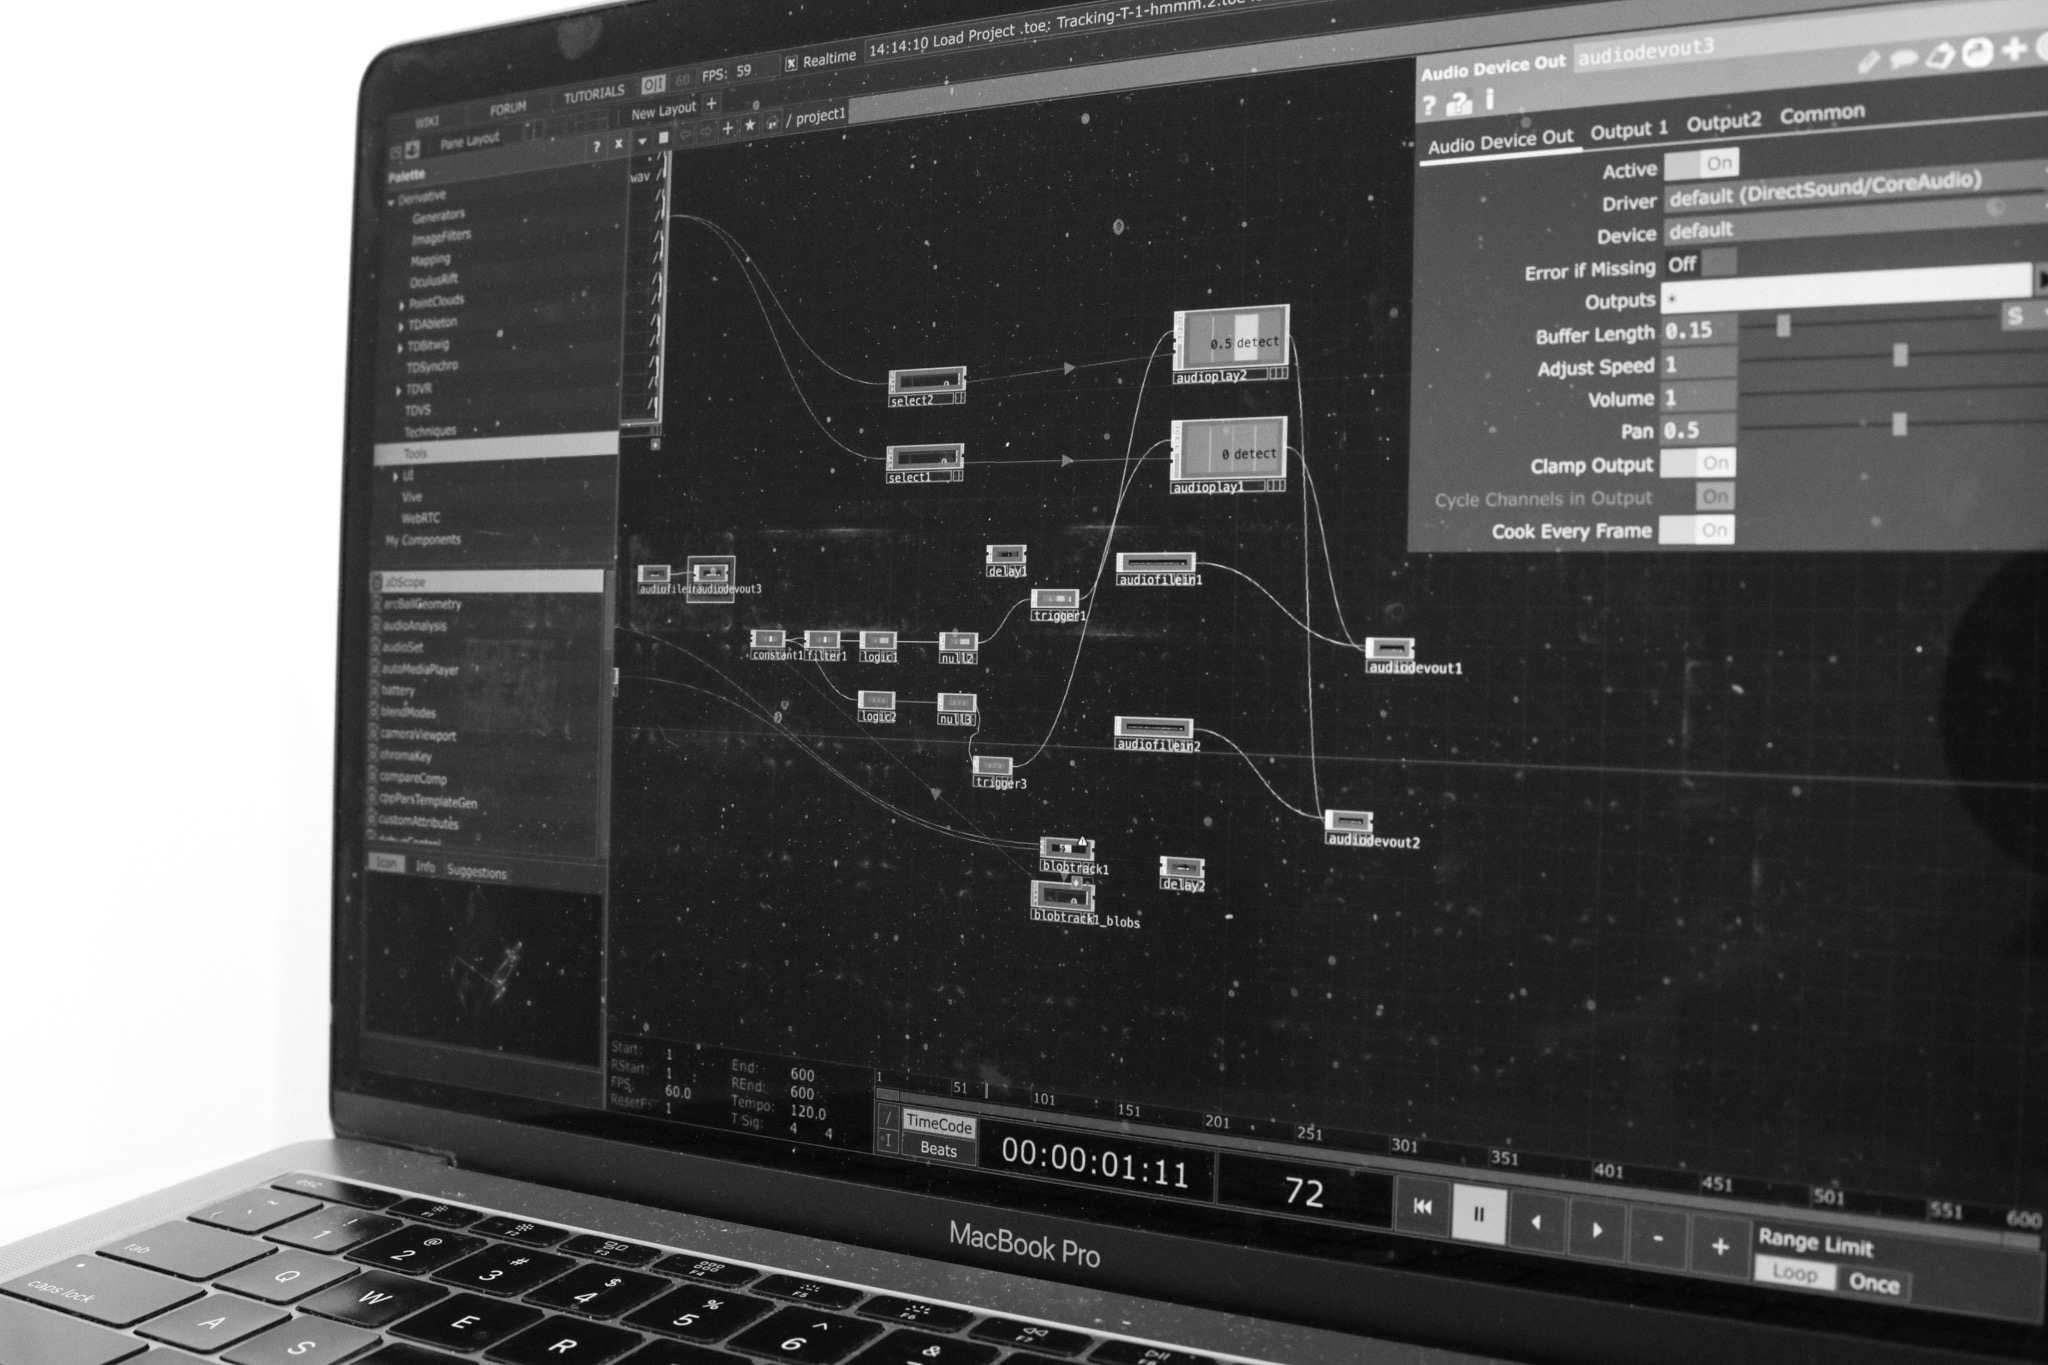
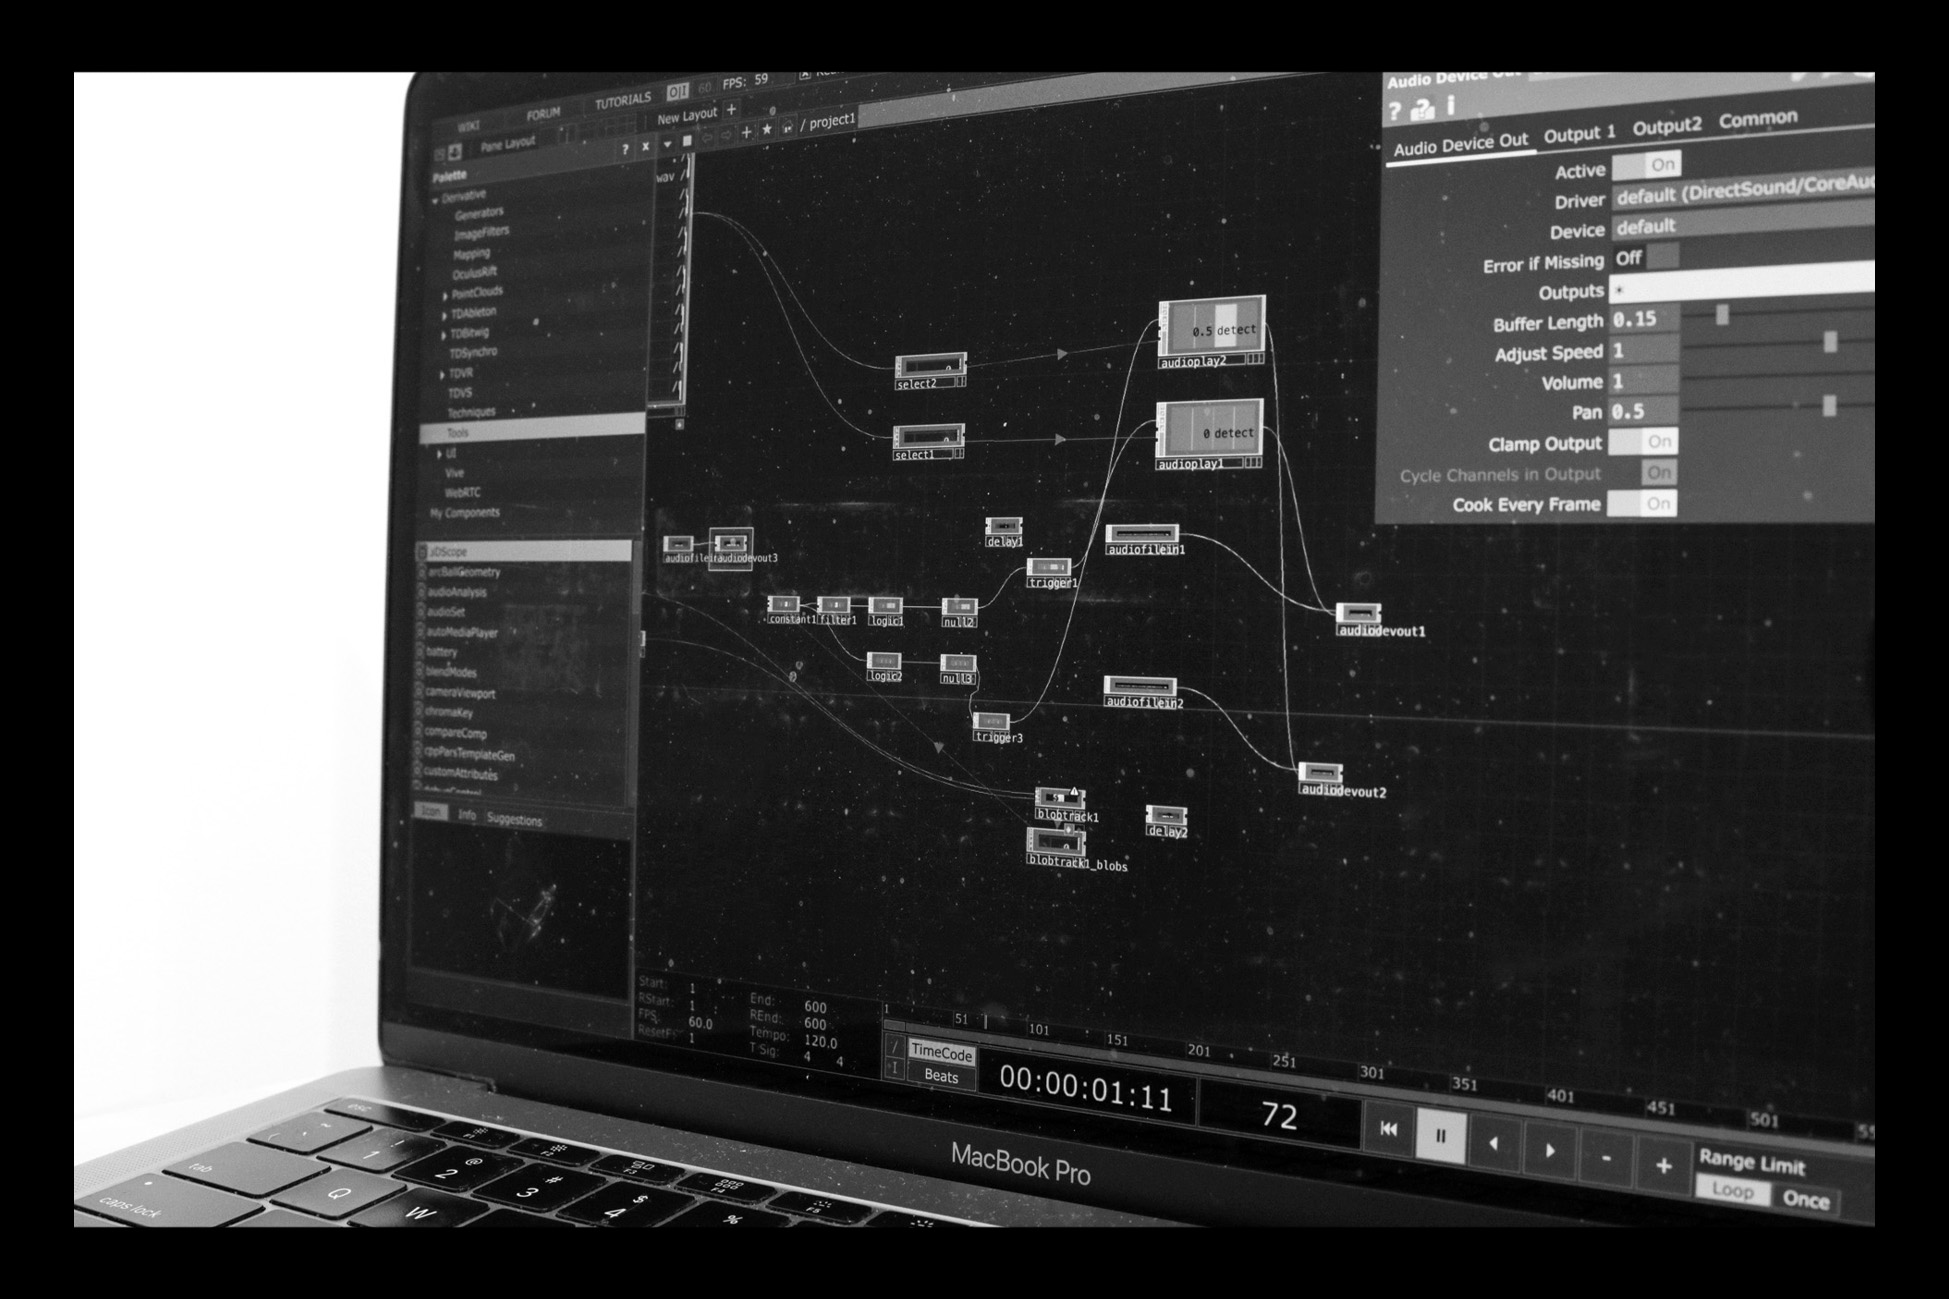
Images to fit

diff --git a/voices-in-stills.html b/voices-in-stills.html
@@ -110,11 +110,16 @@
 
 <div class="bordering-line">
   <h1 class="banner-text">Voices in Stills</h1>
-  <p class="banner-hanging-number">An exploration of the emotional realtionship between sound and static image through motion tracking. Voices in Stills uses emotional soundscapes and overlayed black and white photography to help guide you through an impactful storytelling experience.</p>
-  <p class="project-date-top">By stepping into the space you control you're experience through the motion tracking and immersive sounds.</p>
+<p class="banner-hanging-number">
+An exploration of the emotional relationship between sound and static image through the use of a motion, sound, and photography-based installation. *Voices in Stills* uses emotional ambient soundscapes, rich storytelling, and overlaid black and white photography to guide the user through an impactful storytelling experience.
+</p>
+<p class="project-date-top">
+By stepping into the installation space, the user controls how they experience the stories of loss, told through two voices transmitting via a headset — using TouchDesigner motion tracking and immersive, old-media-styled music and SFX.
+</p>
 
-<p class="catagory">Installation <br>2025</p>
-<p class="year">Roles: <br>Graphic Designer, Photographer, UX/UI Designer, Sound Enginer, Composer, Joiner and Construction</p>
+
+<p class="catagory">Installation<br>2024</p>
+<p class="year">Roles:<br>Researcher, Graphic Designer, Photographer, UX/UI Designer, Sound Enginer, Composer, Joiner and Constructor</p>
 </div>
 </div>
 
@@ -125,52 +130,58 @@
 
 
   <h4 class="research-question">
-      Research question: <br> How might we explore the emotinal relationship of old sounding voice recording through, motion tracking and glass work photography.
+Research question: <br> How might we explore the emotional relationship of old-sounding voice recordings through motion tracking and glasswork photography?
       </h4>
 
 <div class="stage-divider">
   <div id="img-1-vis" class="project-image"></div>
     <div class="stage-divider-text-aligning">
     <h2>Research and Preparation</h2>
-    <p>Inspired by the overlaying technique of Robert Rauschenberg
- and the interactive art of Emmanuel Van der Auwera we were interested in created a multifaceted experience driven design. Utilising sound, photography and motion tracking.
+<p>
+Inspired by the overlaying techniques of Robert Rauschenberg and the interactive art of Emmanuel Van der Auwera, we were interested in creating a multifaceted experience, utilizing the full effects of sound, photography, and motion tracking.
 <br><br>
-      We began by researching Japanese photographer Ken Kitano and planning the original photography trials for the mock line up.</p>
+We began by researching Japanese photographer Ken Kitano and planning the initial photography trials for the mock lineup.
+</p>
+
 </div>
 </div>
 
 <div class="stage-divider">
   <div id="img-2-vis" class="project-image"></div>
     <div class="stage-divider-text-aligning">
-    <h2>Photography and Editing</h2>
-    <p>The photography shoots were next. We shot 6 separate shoots, varying in style, colour, grain, background, pose and distance of the shot. This was in order to assist in the next stages as much as possible, allowing the strongest shot composition possible.
+<h2>Photography and Editing</h2>
+<p>
+Six separate shoots were executed, varying in style, color, grain variation, background, pose, and distance. This was done to determine the strongest final composition in the following steps.
+<br><br>
+Through several tests, we found that the eyes of each model became a distraction and gave an uneasy feeling. While this was partially expected, the results appeared more unsettling and distracting than anticipated. Minimizing this element led to a stronger and more thoughtful outcome.
+</p>
 
-    </p>
-    <p>This was then refined in editing, using a basic multiplier adjustment to each photo to get a basic concept on how each photograph will sit on one another. <br><br>
-      
-    Through several test we found the eyes of each model became a distraction and gave an uneasy feeling. This was similar to the researched photographers work I found, however, through several experiments I found the elementating this aspect pf the final composition created a stronger and more appealing outcome.</p>
 </div>
 </div>
 <div class="stage-divider">
   <div id="img-3-vis" class="project-image"></div>
     <div class="stage-divider-text-aligning">
-    <h2>Assembling Frame</h2>
-    <p>We then moved into the assembly of the photography piece. By sliding the clear film photographs in between A4 sections of glass, we trialed several arrangements to test the composition of the full piece. Eventually after comparing 20 experimental arrangements we found the most visually captivating. 
-      </p>
-    <p>We found that overlaying a variety of distances and poses and backgrounds in this specific arrangement was strongest. Also by separating each photo with a piece of glass strengthened it further by creating an unexpected 3 dimensional effect when standing at different angles.
-    <br><br>We built upon this by pressing the final to images in the same piece of glass. This added more variety and melded these two photos together more so, keeping it more abstract in the deepest portions of the image</p>
+<h2>Assembling Composition</h2>
+<p>
+We then moved into assembling the photographic piece. By sliding the clear film photographs between A4-sized glass panels, we trialed several arrangements to test the composition of the full piece. After comparing 20 experimental arrangements, we identified the most visually captivating layout.
+<br><br>
+Overlaying a variety of distances, poses, and backgrounds in one specific arrangement proved to be the strongest. We separated each photo with a pane of glass, which further enhanced the piece by creating a subtle, unexpected lenticular effect when viewed from different angles.
+<br><br>
+We built on this by pressing the final two photographs within the same pane of glass. This added more variety and allowed the two images to blend more than the others, creating additional depth and a more abstracted focus on the deeper layers of the piece.
+</p>
+
 </div>
 </div>
 
 <div class="stage-divider">
   <div id="img-4-vis" class="project-image"></div>
     <div class="stage-divider-text-aligning">
-    <h2>Testing frame and final assembly</h2>
-    <p>
-
-We than constructed a functional 2 sided frame that would hold the glass panels in. This was carefully done, as a deviation from the traditional frame meant the structure was fundamentally weaker especially for the weight of the 4 panels of glass.
+<h2>Frame Construction and Assembly</h2>
+<p>
+We then constructed a functional two-sided frame to hold the glass panels together. As a deviation from the traditional one-sided frame, the structure was initially weaker — especially under the weight of the glass.
 <br><br>
-A wooden stand was then also assembled and painted to match the frame to create a better focal point and structure for the photography piece. </p>
+To alleviate this issue and keep the piece balanced, a wooden stand was assembled to support the frame.
+</p>
 </div>
 </div>
 
@@ -178,15 +189,12 @@ A wooden stand was then also assembled and painted to match the frame to create 
 <div class="stage-divider">
   <div id="img-5-vis" class="project-image"></div>
     <div class="stage-divider-text-aligning">
-    <h2>Sound Design:</h2>
-    <p>
-Using Logic X Pro, and a scarlet interface we recorded a basic chord progression utilizing techniques of several indie musicians specializing in melancholic styled, soft, acoustic guitar soundscapes. This shaped the experience and added further emotion to the spoken voices part of the audio.
+    <h2>Sound Design</h2>
+<p>
+We composed a simple guitar-based soundscape to emphasize the melancholic tone of the project. Inspired by soft acoustic guitar instrumentals and ambient soundscapes, the audio helped shape the overall experience and added emotional depth to the spoken voice sections.
 <br><br>
-The audio was then mixed and altered to fit the sound of an old media recording. This brought greater immersion and lent further into the feeling of nostalgia and the intrinsic emotions associated with that.
-<br><br>
-The track was purposefully constructed to be very simple to not be too distracting and also to be easily looped without breaking immersion in the experience.
-<br><br>
-this was tested heavily to ensure it felt authentic and had the intended effect, which after minor adjustments proved to be successful.</p>
+The audio was then mixed and processed to mimic the sound of an old tape recorder, enhancing immersion and making it feel like a vintage phone receiver message. This effect was thoroughly tested to ensure it felt authentic and achieved the intended emotional impact.
+</p>
 </div>
 </div>
 
@@ -194,14 +202,15 @@ this was tested heavily to ensure it felt authentic and had the intended effect,
 <div class="stage-divider">
   <div id="img-6-vis" class="project-image"></div>
     <div class="stage-divider-text-aligning">
-    <h2>Music and Recordings:</h2>
-    <p>
-The voices were a primary aspect of this experience, and therefore needed to carry the intended weight. Special attention was given and numerous attempts were done in order to reach this outcome.
-
+    <h2>Music and Voices</h2>
+<p>
+The voices were a primary aspect of this experience and needed to carry significant emotional weight. The stories told in each recording had to feel both powerful and authentic. Numerous iterations were conducted to achieve the final result.
 <br><br>
-The audio proved most effective when using two participants, recorded using a phone speaker, then altered harshly to mimic the effect of an old phone answering phone. 
-This melded in perfectly with the music, and using the strong subject matter of loss and the feelings that came with that experience from both speakers, the final audio was extremely effective in conveying important subject matter, in an emotionally gripping form.
+The audio proved most effective when using two participants, recorded through an iPhone speaker and then heavily altered to mimic the sound of an old answering machine.
+<br><br>
+This blended seamlessly with the music composition. By drawing on the emotionally charged subject of losing a loved one, and the feelings expressed by both speakers, the final audio conveyed its message in a raw, emotionally authentic, and visceral form.
 </p>
+
 </div>
 </div>
 
@@ -211,12 +220,12 @@ This melded in perfectly with the music, and using the strong subject matter of 
 <div class="stage-divider">
   <div id="img-7-vis" class="project-image"></div>
     <div class="stage-divider-text-aligning">
-    <h2>Motion Tracking:</h2>
-    <p>The next stage was to piece everything together using motion tracking. This was fully realized by using Touch Designers blob detection to understand where the participant was. Then linking this to the audio, the user could control which voice they heard by moving onto one of the two sides of the glass piece. Giving the illusion of hearing the voices through the prominent portrait the participant was looking towards.
-
-To further bring the immersion to its full potential. The music was panned and played continuously on loop independent of the voice lines.
-
-Extra sound effects were then added to bring further user control and immersive feeling, these included and tape recorder rewinding at the end of a voice line and an answering machine beep to indicate when the user had changed sides.</p>
+    <h2>Motion Tracking</h2>
+<p>
+The next stage was to piece everything together using motion tracking. This was fully realized through TouchDesigner’s blob detection, which was linked directly to the audio. The user could control which voice they heard by moving to one of the two sides of the glass piece (over the tape marking), creating the illusion of hearing the voice through the prominent face they could clearly see.
+<br><br>
+The music was panned and contrasted against the voice lines and accompanying sound effects. Additional sound effects were included to enhance user control and immersion — such as a tape recorder rewind at the end of a voice line and an answering machine beep to indicate when the user had switched sides.
+</p>
 </div>
 </div>
 
@@ -226,10 +235,13 @@ Extra sound effects were then added to bring further user control and immersive 
 <div class="stage-divider">
   <div id="img-8-vis" class="project-image"></div>
     <div class="stage-divider-text-aligning">
-    <h2>Assembly:</h2>
-    <p>Several small tests after the final assembly was done in the installation space. This helped balance the audio levels for the space. The use of noise canceling headphones needed to be used for this as well. Also the motion tracking and lighting issues that came about were swiftly corrected.
+    <h2>Set-up</h2>
+<p>
+Several small tests were conducted in the installation space after the final assembly. These helped balance the audio levels for the environment. Minor adjustments were made, such as using noise-cancelling headphones to achieve the full effect, and making amendments to the motion tracking and lighting setup.
 <br><br>
-To add final details, a logo was constructed and used the same materials as the glass piece, and kept the same themes. On top of this a simple diagram was also made to show off how to use the installation.</p>
+To add final details, a logo was created using the same materials as the glass piece. Additionally, a simple diagram was produced to demonstrate how to use the installation, displayed on the wall and on a computer screen behind the setup.
+</p>
+
 </div>
 </div>
 
@@ -241,12 +253,13 @@ To add final details, a logo was constructed and used the same materials as the 
 <div class="stage-divider">
   <div id="img-9-vis" class="project-image"></div>
     <div class="stage-divider-text-aligning">
-    <h2>Detailing:</h2>
-    <p>
-The final piece was a successful delve into an emotional experience through two voices tracked the positions of the user.
+    <h2>Detailing</h2>
+<p>
+The final piece was a successful dive into an emotional experience, with two voices tracked based on the user’s position.
 <br><br>
-The strong soundscape created an immersive and emotional backdrop for the user to engage fully with the stories being shared through the audio. This was all brought together by the centre piece of photography placed center of the installation.
+The strong soundscape created an immersive and emotional backdrop, allowing the user to fully engage with the stories shared through the audio. All of this was brought together by the central glass photography piece placed at the heart of the installation.
 </p>
+
 </div>
 </div>
 

diff --git a/projects-made-you-look.html b/projects-made-you-look.html
@@ -127,7 +127,7 @@
 
 
 <div class="stage-divider">
-  <div id="img-1-myl" class="project-image"></div>
+  <div id="img-1-myl" class="project-image fit-to-width-img"></div>
     <div class="stage-divider-text-aligning">
     <h2>Branding and Focus</h2>
 <p>Based on the band’s predetermined aesthetic, we created a focused brand identity that reflected their style. Utilizing a grunge-meets-modern approach, we crafted a patchwork-inspired, rugged look that would later be expanded across the campaign’s collateral.
@@ -152,7 +152,7 @@ We found that some, such as Post Malone’s and Bring Me The Horizon’s website
 </div>
 
 <div class="stage-divider">
-  <div id="img-3-myl" class="project-image"></div>
+  <div id="img-3-myl" class="project-image fit-to-width-img"></div>
     <div class="stage-divider-text-aligning">
     <h2>Structuring for User Flow</h2>
 <p>

diff --git a/css/made-you-look.css b/css/made-you-look.css
@@ -1,13 +1,18 @@
-#img-1-myl, #img-2-myl, #img-3-myl, #img-4-myl, #img-5-myl, #img-6-myl, #img-7-myl, #img-8-myl, #img-9-myl{
+#img-2-myl, #img-4-myl, #img-5-myl, #img-7-myl, #img-8-myl, #img-9-myl{
     content: url('../images/myl-images/desktop-view.png');
-    object-fit:contain; /* push image in bounds of grid  */
+    object-fit: contain; /* push image in bounds of grid  */
     width: 100%;
     height: 100%;
 }
 
 
 
-
+#img-1-myl, #img-3-myl, #img-5-myl, #img-6-myl{
+    content: url('../images/myl-images/desktop-view.png');
+    object-fit: cover; /* push image in bounds of grid  */
+    width: 100%;
+    height: 100%;
+}
 
 
 #img-1-myl{
@@ -15,7 +20,7 @@
 }
 
 #img-2-myl{
-    content: url('../images/myl-images/7.\ research.jpg');
+    content: url('../images/myl-images/competittors.jpg');
 }
 
 #img-3-myl{

diff --git a/css/projects.css b/css/projects.css
@@ -39,7 +39,7 @@ footer {
     grid-row-start: 1;
     grid-row-end: 1;
     padding-left: 9vw;
-    padding-right: 9rem;
+    padding-right: 9vw;
     border-top: 1px solid #e5e5e5;
     object-fit: cover; /* push image in bounds of grid  */
     transition: transform 0.5s ease, opacity 0.5s ease; /* Smooth sliding effect */
@@ -212,6 +212,3 @@ footer {
 
 
 }
-
-
-

diff --git a/css/voices-in-stills.css b/css/voices-in-stills.css
@@ -1,5 +1,5 @@
 #img-1-vis, #img-2-vis, #img-3-vis, #img-4-vis, #img-5-vis, #img-6-vis, #img-7-vis, #img-8-vis, #img-9-vis{
-    object-fit:contain; /* push image in bounds of grid  */
+    object-fit: cover; /* push image in bounds of grid  */
     width: 100%;
     height: 100%;
 }
